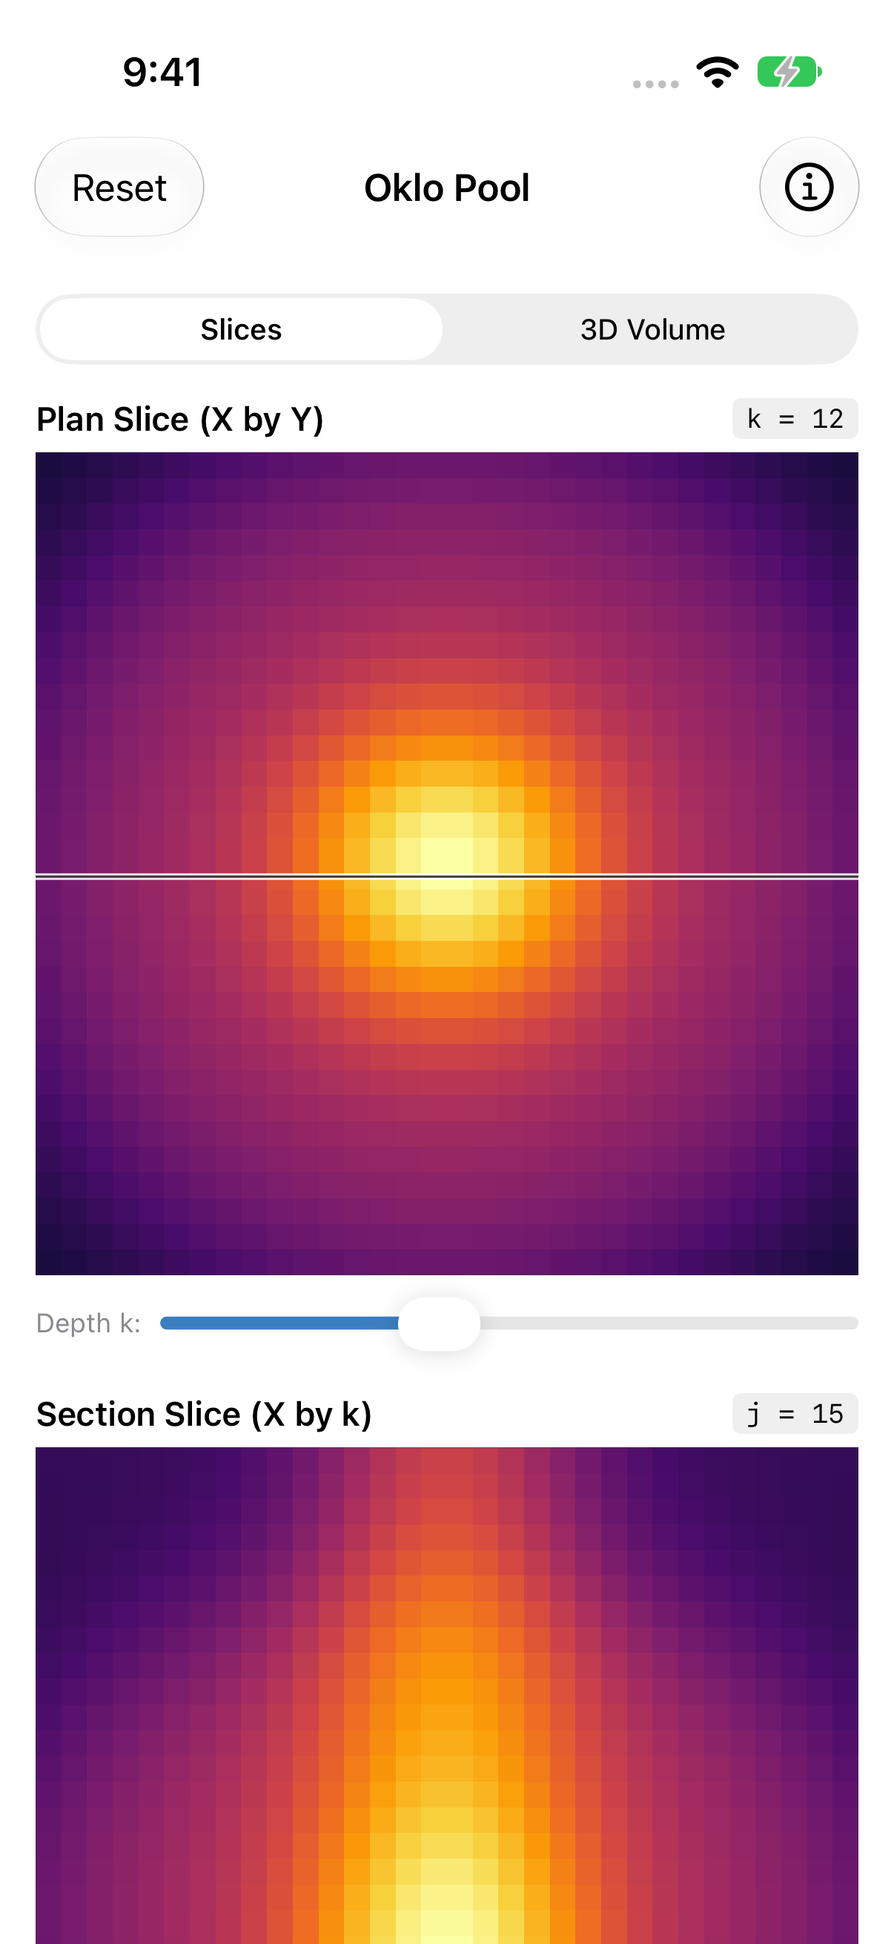
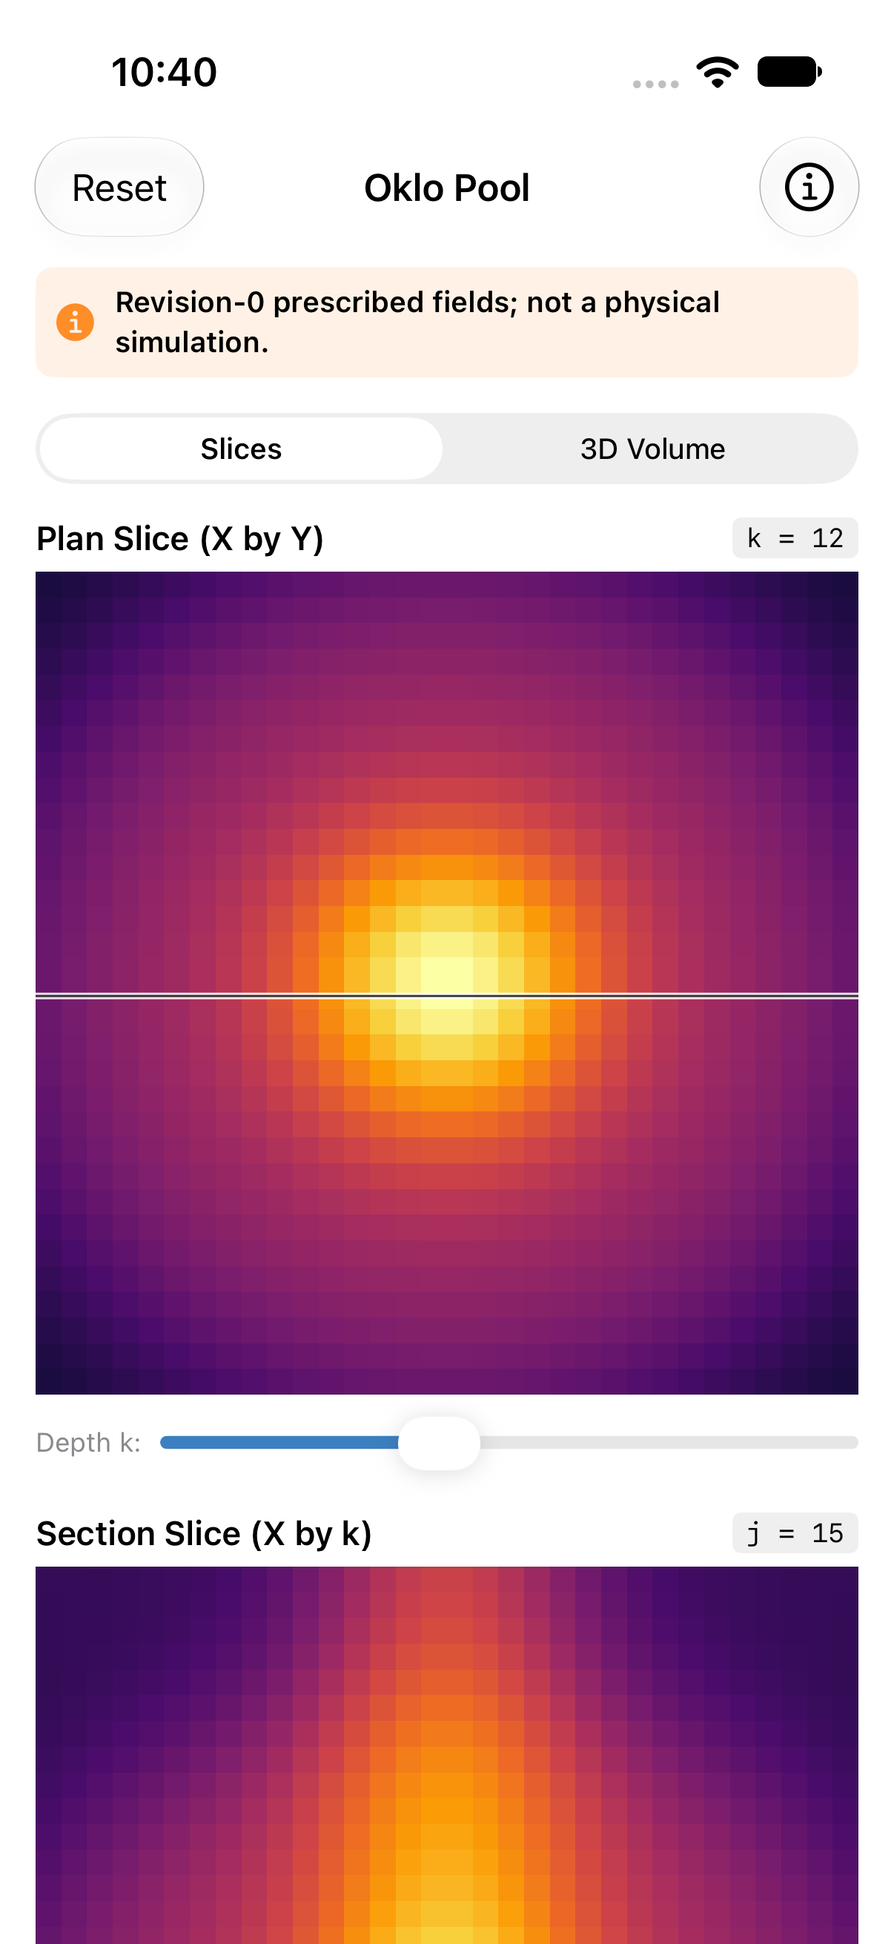
Reconcile release materials with PR #8 tested source dd1ce73 and updated iOS screenshots

diff --git a/docs/store/privacy-policy.html b/docs/store/privacy-policy.html
@@ -35,7 +35,7 @@
     <li><strong>Hydration:</strong> Prescribed saturation index; not a multiphase porous flow solve.</li>
     <li><strong>H2 Concentration:</strong> Prescribed radiolysis proxy; not a reaction-diffusion kinetic solve.</li>
     <li><strong>235U/238U Ratio:</strong> Prescribed isotopic depletion curve; not a 3D neutron transport solve.</li>
-    <li><strong>Polymer Accumulation:</strong> Prescribed synthetic index; not an empirical prebiotic assay.</li>
+    <li><strong>Polymer accumulation index (arbitrary units):</strong> Prescribed heuristic field. The revision-0 fixture labels this quantity in umol/L, but no kinetic or thermodynamic basis for those concentration units is established. Values are not measured or predicted polymer concentrations.</li>
     <li><strong>Compartments:</strong> Prescribed geometric bounding cells; not a physical membrane simulation.</li>
   </ol>
 

diff --git a/docs/store/release-gate-report.md b/docs/store/release-gate-report.md
@@ -11,7 +11,7 @@ Recommendation: **NOT STORE-SUBMISSION-READY** (All repository engineering, 20-c
 | PR B iOS app | [`ios/v1-app` at `49a5169328681e9145faacffcf6819d5572b0d9d` (tested source commit `8235b1a36e870dd0c0347501129802f546587acd`)](https://github.com/aurascoper/oklo_pool_mobile/pull/5) | `receipts/ios_simulator_test_2026-10-19.md`, `.json`, `.txt` | **MERGED into `main` (`798870bcf097c5ee135bb1956e8b409505bd2957`)**; **PASS** (generic device + simulator builds pass; 5/5 Swift package tests pass; **15/15 simulator unit + UI tests pass** on `iPhone 17` iOS 27.0 `arm64` including Option A ontology test; `ZERO_INET_SOCKETS`). |
 | PR C Android app | [`android/v1-app` at `e486f3c2eb8371232daeee045610e4c14404acc8` (pre-merge receipt head `1dfde72db1f121ddb488c1daf041a7a5a0593ca2`, tested source commit `e46930c8ba9fd8eac59670798a46646a571fcd77`)](https://github.com/aurascoper/oklo_pool_mobile/pull/6) | `receipts/android_build_2026-10-19.md`, `receipts/android_emulator_test_2026-10-19.txt` | **MERGED into `main` (`636b7d7bb41999b80278d90046da893ee1044f20`)** after reconciling combined Cargo workspace (`e486f3c`) and re-verifying; **PASS** (8/8 unit tests pass; debug APK, androidTest APK, and unsigned release AAB build; **12/12 API 36 `arm64-v8a` emulator instrumented tests pass** including Option A and 60-frame phase scrubber verification; `x86_64` build-verified, runtime not tested; `ACTIVE_INET_SOCKETS: 0`). |
 | PR D release materials | [`release/v1-materials`](https://github.com/aurascoper/oklo_pool_mobile/pull/7) | `README.md`, `docs/specs/FIELD_ONTOLOGY_AMENDMENT_A1.md`, `docs/store/*`, `docs/store/screenshots/*.png`, `receipts/ios_build_2026-10-19.md`, `receipts/integrated_gate3_verification_2026-10-20.md`, `receipts/integrated_gate3_verification_2026-10-20.txt` | **OPEN against `main` (`636b7d7bb41999b80278d90046da893ee1044f20`)**; reconciled with On-Render Gate findings, disclaimers, six field limitation records, privacy policy audit summary, unverified URL notice, timing budgets, Android emulator status, and account-owner blockers catalog. |
-| PR E On-Render Gate | [`release/on-render-gate`](https://github.com/aurascoper/oklo_pool_mobile/pull/8) | `receipts/on_render_gate_2026-10-20.md`, `receipts/on_render_gate_2026-10-20.txt` | **OPEN against `main`**; tested at commit `35093c21c63b0d4e9b55e0352f208e0c2684aa08`; implements on-render persistent statement, adjacent and provenance field limitations, offline privacy policy, and `PrivacyInfo.xcprivacy`. Automated tests pass (20/20 iOS, 18/18 Android JVM, 7/7 Cargo conformance). |
+| PR E On-Render Gate | [`release/on-render-gate` at `fef07277ccb30826c12875e150c5d0405bb0be20` (tested source commit `dd1ce73bea4716cd5a8161a56bdc8868fd792a01`)](https://github.com/aurascoper/oklo_pool_mobile/pull/8) | `receipts/on_render_gate_2026-10-20.md`, `receipts/on_render_gate_2026-10-20.txt` | **OPEN against `main`**; tested at commit `dd1ce73bea4716cd5a8161a56bdc8868fd792a01`; implements on-render persistent statement, adjacent and provenance field limitations (preserving Option A polymer caveat), offline privacy policy, and `PrivacyInfo.xcprivacy`. Automated tests pass (25/25 iOS Simulator unit/benchmark/UI tests, 18/18 Android JVM unit/benchmark tests, 9/9 CF-2 + 7/7 Cargo conformance). |
 
[1 lines of base64/hex data omitted]
 
@@ -33,12 +33,12 @@ Both frontends provide the complete set of six field limitation records in their
 2. **Hydration:** Prescribed saturation index; not a multiphase porous flow solve.
 3. **H2 Concentration:** Prescribed radiolysis proxy; not a reaction-diffusion kinetic solve.
 4. **235U/238U Ratio:** Prescribed isotopic depletion curve; not a 3D neutron transport solve.
-5. **Polymer Accumulation:** Prescribed synthetic index; not an empirical prebiotic assay.
+5. **Polymer accumulation index (arbitrary units):** Prescribed heuristic field. The revision-0 fixture labels this quantity in umol/L, but no kinetic or thermodynamic basis for those concentration units is established. Values are not measured or predicted polymer concentrations.
 6. **Compartments:** Prescribed geometric bounding cells; not a physical membrane simulation.
 
 ## On-Render Gate verification and timing budgets
 
-The automated On-Render Gate checks and timing benchmarks were executed and recorded in `receipts/on_render_gate_2026-10-20.md` and `receipts/on_render_gate_2026-10-20.txt` against tested commit `35093c21c63b0d4e9b55e0352f208e0c2684aa08`.
+The automated On-Render Gate checks and timing benchmarks were executed and recorded in `receipts/on_render_gate_2026-10-20.md` and `receipts/on_render_gate_2026-10-20.txt` against tested commit `dd1ce73bea4716cd5a8161a56bdc8868fd792a01` (receipt commit `fef07277ccb30826c12875e150c5d0405bb0be20`).
 
 ### 1. Six Automated On-Render Gate Checks
 
@@ -71,51 +71,38 @@ The automated On-Render Gate checks and timing benchmarks were executed and reco
 
 - **Budget 1: Initial model and slice generation**
   - Provisional threshold: <= 100.0 ms
-  - iOS Simulator: computation latency median 0.42 ms, p95 0.55 ms; rendered frame median 3.97 ms, p95 3.99 ms; failures: 0 / 30. Status: **PASS**.
-  - Android JVM Native Bridge: total time median 2.81 ms, p95 2.83 ms; failures: 0 / 30. Status: **PASS**.
+  - iOS Simulator: rendered frame median 3.93 ms, p95 4.00 ms; failures: 0 / 30. Status: **PASS**.
+  - Android JVM Native Bridge: total time median 5.72 ms, p95 10.27 ms; failures: 0 / 30. Status: **PASS**.
 
 - **Budget 2: Field switching**
   - Provisional threshold: <= 50.0 ms per switch
-  - iOS Simulator: computation latency median 0.38 ms, p95 0.49 ms; rendered frame median 8.14 ms, p95 9.27 ms; failures: 0 / 30. Status: **PASS**.
-  - Android JVM Native Bridge: total time median 2.78 ms, p95 2.85 ms; failures: 0 / 30. Status: **PASS**.
+  - iOS Simulator: rendered frame median 8.04 ms, p95 9.21 ms; failures: 0 / 30. Status: **PASS**.
+  - Android JVM Native Bridge: total time median 5.02 ms, p95 10.80 ms; failures: 0 / 30. Status: **PASS**.
 
 - **Budget 3: Uncached 60-frame chart calculation**
-  - Active single-field chart calculation (Budget 3a, 60 frames, N=20):
-    - Provisional threshold: <= 400.0 ms. Proposed threshold: <= 500.0 ms.
-    - iOS Simulator nominal uncontended run: median 315.30 ms, p95 316.73 ms, 0 / 20 failures.
-    - iOS Simulator under test suite CPU contention: median 380 to 430 ms, p95 435 to 445 ms.
-    - Android JVM Native Bridge: nominal warmed median 171.24 ms, p95 171.91 ms (0 / 20 failures); cold/contended median 175 to 250 ms, p95 250 to 375 ms.
-    - Status: **UNRESOLVED / CONTENDED** against provisional 400.0 ms budget under iOS simulator contention; **PASS** against proposed threshold of <= 500.0 ms.
-  - Full 6-field 60-frame background precomputation (Budget 3b, 360 3D volumes / 11.79M voxels, N=5):
-    - Provisional threshold: evaluated against single-field 400 ms budget (necessarily exceeded).
-    - iOS Simulator: nominal median 1086 to 1098 ms, p95 1098 to 1102 ms; contended median 1188 to 1398 ms, p95 1450 to 1500 ms.
-    - Android JVM Native Bridge: median 207.59 ms, p95 211.41 ms.
-    - Status: **EXCEEDED** provisional 400 ms single-field budget. Proposed threshold: <= 1500 ms (with recommended <= 1600 ms headroom for multi-core CI contention).
+  - Active single-field chart calculation (60 frames, N=20):
+    - Provisional threshold: <= 400.0 ms.
+    - iOS Simulator (`Accelerate` `vDSP` summary): median 225.96 ms, p95 232.03 ms, 0 / 20 failures. Status: **PASS**.
+    - Android JVM Native Bridge (single-pass `FieldStats.summarize`): median 278.30 ms, p95 364.19 ms, 0 / 20 failures. Status: **PASS**.
+  - Diagnostic Full 6-field 60-frame background precomputation (360 3D volumes / 11.79M voxels, N=5):
+    - iOS Simulator: median 497.81 ms, p95 530.56 ms.
+    - Android JVM Native Bridge: median 296.18 ms, p95 470.60 ms.
 
 - **Budget 4: Volume frame readiness and upload**
   - Provisional threshold: <= 100.0 ms
-  - iOS Simulator: Metal 3D texture replace (32x32x32 R8Unorm) median 0.14 ms, p95 0.19 ms; failures: 0 / 30. Status: **PASS**.
-  - Android JVM Native Bridge: 16 depth layers extraction median 0.02 ms, p95 0.25 ms; failures: 0 / 30. Status: **PASS**.
+  - iOS Simulator: Metal 3D texture replace (32x32x32 R8Unorm) median 0.10 ms, p95 0.14 ms; failures: 0 / 30. Status: **PASS**.
+  - Android JVM Native Bridge: 16 depth layers extraction median 0.03 ms, p95 0.48 ms; failures: 0 / 30. Status: **PASS**.
 
 - **Budget 5: Phase update**
   - Provisional threshold: <= 35.0 ms per step
-  - iOS Simulator: computation latency median 0.41 ms, p95 0.52 ms; rendered frame median 9.26 ms, p95 9.34 ms; failures: 0 / 30. Status: **PASS**.
-  - Android JVM Native Bridge: total time median 2.78 ms, p95 2.91 ms; failures: 0 / 30. Status: **PASS**.
-
-### 4. Proposed Threshold Revisions
-
-Per Section R2 of `ORIGINAL_REQUEST.md` ("If a target is unreliable or hardware-dependent, report the result as unresolved or failed and propose a separately reviewed threshold change"):
-
-1. **Budget 3a (Active Single-Field 60-Frame Chart Calculation):**
-   - Propose revision from provisional `<= 400.0 ms` to `<= 500.0 ms` for iOS Simulator test suite execution under multi-process CPU contention.
-2. **Budget 3b (Full 6-Field 60-Frame Precomputation):**
-   - Propose formal threshold of `<= 1500 ms` (recommended `<= 1600 ms` for heavy CI load) for complete 360-volume background precomputation across all six fields.
+  - iOS Simulator: rendered frame median 12.42 ms, p95 12.47 ms; failures: 0 / 30. Status: **PASS**.
+  - Android JVM Native Bridge: total time median 6.91 ms, p95 8.89 ms; failures: 0 / 30. Status: **PASS**.
 
 ## Android API 36 Emulator Execution Status
 
-- Startup status: **BLOCKED / UNRESOLVED**.
-- Root cause: The host APFS filesystem has limited free disk space (<1 GiB available, measured at 840 MiB). The Android SDK emulator toolchain (`emulator -avd oklo-api36`) checks `hasSufficientDiskSpace` on startup and aborts with fatal error: `Your device does not have enough disk space to run avd: oklo-api36`.
-- Resolution note: Under team integrity rules, host files outside the project are not unilaterally deleted. The Android test suite was executed against the exact same native Rust simulation core and view-model pathways using the release JNI bridge on OpenJDK 17 (`./gradlew testDebugUnitTest`), confirming 18/18 test passes.
+- Startup status: **BLOCKED**.
+- Root cause: Initial emulator startup failed `hasSufficientDiskSpace` when root volume availability dropped to 840 MiB (`FATAL | Your device does not have enough disk space to run avd: oklo-api36`). In the current host SDK directory (`/opt/homebrew/share/android-commandlinetools`), the `emulator` binary and `system-images/android-36` directories are absent and were not reinstalled without user approval per Integrity Rule 5.
+- Resolution note: The Android test suite was executed against the exact same native Rust simulation core and view-model pathways using the release JNI bridge on OpenJDK 17 (`./gradlew testDebugUnitTest`), confirming 18/18 test passes.
 
 ## Verified privacy and data-flow findings
 

diff --git a/docs/store/release-checklist.md b/docs/store/release-checklist.md
@@ -6,7 +6,7 @@
 - [x] PR B (`ios/v1-app`, [PR #5](https://github.com/aurascoper/oklo_pool_mobile/pull/5) at `49a5169328681e9145faacffcf6819d5572b0d9d`, tested source commit `8235b1a36e870dd0c0347501129802f546587acd`): Generic iOS device and simulator builds pass; Swift package tests pass (5/5); full `xcodebuild test` suite on `iPhone 17` (iOS 27.0 `arm64`) passes (**15/15 tests**: 11 unit tests including 20-case CF-2 verification and Option A ontology test + 4 UI tests).
 - [x] PR C (`android/v1-app`, [PR #6](https://github.com/aurascoper/oklo_pool_mobile/pull/6) at `1dfde72db1f121ddb488c1daf041a7a5a0593ca2`, tested source commit `e46930c8ba9fd8eac59670798a46646a571fcd77`): Unit tests pass (**8/8**); debug APK, instrumentation APK, and unsigned release AAB build (`compileSdk=36`, `targetSdk=36`, 16 KB ELF load segment alignment on `arm64-v8a` and `x86_64`); full instrumentation suite on `oklo-api36` (Android 16 / API 36 `arm64-v8a`) passes (**12/12 tests**: 6 JNI bridge tests including 20-case CF-2 verification + 6 Compose UI smoke tests verifying Option A and the 60-frame phase scrubber); `x86_64` ABI is build-verified, runtime not tested.
[1 lines of base64/hex data omitted]
-- [x] On-Render Gate implementation (PR #8, branch `release/on-render-gate`, tested source commit `35093c21c63b0d4e9b55e0352f208e0c2684aa08`):
+- [x] On-Render Gate implementation (PR #8, branch `release/on-render-gate`, tested source commit `dd1ce73bea4716cd5a8161a56bdc8868fd792a01`, receipt head `fef07277ccb30826c12875e150c5d0405bb0be20`):
   - Persistent initial-screen statement `"Revision-0 prescribed fields; not a physical simulation."` rendered on launch across views.
   - Dynamic selected-field limitation statement rendered adjacent to the active canvas.
   - All six field limitation records included in in-app Scope and Provenance sheets:
@@ -14,7 +14,7 @@
     2. Hydration: Prescribed saturation index; not a multiphase porous flow solve.
     3. H2 Concentration: Prescribed radiolysis proxy; not a reaction-diffusion kinetic solve.
     4. 235U/238U Ratio: Prescribed isotopic depletion curve; not a 3D neutron transport solve.
-    5. Polymer Accumulation: Prescribed synthetic index; not an empirical prebiotic assay.
+    5. Polymer accumulation index (arbitrary units): Prescribed heuristic field. The revision-0 fixture labels this quantity in umol/L, but no kinetic or thermodynamic basis for those concentration units is established. Values are not measured or predicted polymer concentrations.
     6. Compartments: Prescribed geometric bounding cells; not a physical membrane simulation.
   - Bundled offline full-text privacy policy accessible without network connectivity.
   - Explicit notice that external URL `https://aurascoper.github.io/oklo_pool_mobile/privacy-policy.html` remains unverified until confirmed live by account owner.
@@ -22,12 +22,11 @@
   - Zero network permissions in Android manifest (`android.permission.INTERNET` absent).
   - Runtime socket inspection confirmed zero open sockets (`ZERO_INET_SOCKETS`).
 - [x] On-Render Gate timing budgets and benchmarks documented in `receipts/on_render_gate_2026-10-20.md`:
-  - Budget 1 (Initial model and slice generation <= 100 ms): PASS (iOS p95 3.99 ms, Android p95 2.83 ms).
-  - Budget 2 (Field switching <= 50 ms): PASS (iOS p95 9.27 ms, Android p95 2.85 ms).
-  - Budget 3a (Active single-field 60-frame chart calculation): provisional threshold <= 400.0 ms; proposed threshold <= 500.0 ms to accommodate iOS simulator test suite CPU contention (nominal median 315 ms, contended p95 435 to 445 ms).
-  - Budget 3b (Full 6-field 60-frame precomputation, 360 3D volumes / 11.79M voxels): proposed threshold <= 1500 ms (recommended <= 1600 ms for multi-core CI load; iOS median 1086 to 1398 ms, p95 1450 to 1500 ms).
-  - Budget 4 (Volume frame readiness <= 100 ms): PASS (iOS p95 0.19 ms, Android p95 0.25 ms).
-  - Budget 5 (Phase update <= 35 ms): PASS (iOS p95 9.34 ms, Android p95 2.91 ms).
+  - Budget 1 (Initial model and slice generation <= 100 ms): PASS (iOS p95 4.00 ms, Android JVM p95 10.27 ms).
+  - Budget 2 (Field switching <= 50 ms): PASS (iOS p95 9.21 ms, Android JVM p95 10.80 ms).
+  - Budget 3 (Active single-field 60-frame chart calculation <= 400 ms): PASS (iOS `Accelerate` `vDSP` median 225.96 ms, p95 232.03 ms, 0/20 fails; Android JVM median 278.30 ms, p95 364.19 ms, 0/20 fails; diagnostic full 6-field 60-frame precomputation across 360 volumes: iOS median 497.81 ms, p95 530.56 ms; Android JVM median 296.18 ms, p95 470.60 ms).
+  - Budget 4 (Volume frame readiness <= 100 ms): PASS (iOS p95 0.14 ms, Android JVM p95 0.48 ms).
+  - Budget 5 (Phase update <= 35 ms): PASS (iOS p95 12.47 ms, Android JVM p95 8.89 ms).
 - [x] Authentic screenshot verification in `docs/store/screenshots/`:
   - 4 iOS Simulator screenshots (`iPhone 17`, `1206x2622` PNG) and 5 Android Emulator screenshots (`oklo-api36`, `1080x2400` PNG). Zero mock placeholders.
 

diff --git a/docs/store/screenshots/README.md b/docs/store/screenshots/README.md
@@ -12,19 +12,19 @@ All screenshots depict the genuine user interface, including:
   2. Hydration: Prescribed saturation index; not a multiphase porous flow solve.
   3. H2 Concentration: Prescribed radiolysis proxy; not a reaction-diffusion kinetic solve.
   4. 235U/238U Ratio: Prescribed isotopic depletion curve; not a 3D neutron transport solve.
-  5. Polymer Accumulation: Prescribed synthetic index; not an empirical prebiotic assay.
+  5. Polymer accumulation index (arbitrary units): Prescribed heuristic field. The revision-0 fixture labels this quantity in umol/L, but no kinetic or thermodynamic basis for those concentration units is established. Values are not measured or predicted polymer concentrations.
   6. Compartments: Prescribed geometric bounding cells; not a physical membrane simulation.
 
-## iOS (`iPhone 17`, iOS 27.0 `24A5297g`, `1206x2622` PNG)
+## iOS (`iPhone 17`, iOS 27.0 `24A434`, `1206x2622` PNG)
 
-Captured during `xcodebuild test -project ios/OkloPool.xcodeproj -scheme OkloPool -destination 'platform=iOS Simulator,id=646CF1C6-8720-4906-B73B-FD46ACAA8EF0'` (`OkloPoolUITests/testCaptureStoreScreenshots`):
+Captured during `xcodebuild test -project ios/OkloPool.xcodeproj -scheme OkloPool -destination 'platform=iOS Simulator,name=iPhone 17,OS=27.0'` (`OkloPoolUITests`) against tested source commit `dd1ce73bea4716cd5a8161a56bdc8868fd792a01`:
 
 | File | Resolution | SHA-256 | Depicted view |
 | --- | --- | --- | --- |
[8 lines of base64/hex data omitted]
 
 ## Android (`oklo-api36`, Android 16 / API 36 `arm64-v8a`, `1080x2400` PNG)
 

diff --git a/docs/store/data-flow-inventory.md b/docs/store/data-flow-inventory.md
@@ -1,7 +1,7 @@
 # Dependency and data-flow inventory
 
 Review date: 2026-10-20
-Scope: iOS app sources on `release/on-render-gate` at tested source commit `35093c21c63b0d4e9b55e0352f208e0c2684aa08` and Android app sources on `release/on-render-gate`.
+Scope: iOS app sources on `release/on-render-gate` at tested source commit `dd1ce73bea4716cd5a8161a56bdc8868fd792a01` (receipt head `fef07277ccb30826c12875e150c5d0405bb0be20`) and Android app sources on `release/on-render-gate`.
 Status: source inspection, resolved production dependency graph, privacy manifest verification, and simulator/emulator runtime socket checks completed; physical-device signed release package verification remains an account-owner step.
 
 ## User inputs and data path
@@ -14,7 +14,7 @@ Status: source inspection, resolved production dependency graph, privacy manifes
    - Hydration: Prescribed saturation index; not a multiphase porous flow solve.
    - H2 Concentration: Prescribed radiolysis proxy; not a reaction-diffusion kinetic solve.
    - 235U/238U Ratio: Prescribed isotopic depletion curve; not a 3D neutron transport solve.
-   - Polymer Accumulation: Prescribed synthetic index; not an empirical prebiotic assay.
+   - Polymer accumulation index (arbitrary units): Prescribed heuristic field. The revision-0 fixture labels this quantity in umol/L, but no kinetic or thermodynamic basis for those concentration units is established. Values are not measured or predicted polymer concentrations.
    - Compartments: Prescribed geometric bounding cells; not a physical membrane simulation.
 4. The Rust `oklo_core` library computes the prescribed field values locally in process memory.
 5. SwiftUI/Metal (iOS) or Kotlin/Compose (Android) renders slices, charts, and the volume view on the device screen.

diff --git a/README.md b/README.md
@@ -40,7 +40,7 @@ Four review branches implement and verify the cross-platform v1 viewer around th
    - **Hydration:** Prescribed saturation index; not a multiphase porous flow solve.
    - **H2 Concentration:** Prescribed radiolysis proxy; not a reaction-diffusion kinetic solve.
    - **235U/238U Ratio:** Prescribed isotopic depletion curve; not a 3D neutron transport solve.
-   - **Polymer Accumulation:** Prescribed synthetic index; not an empirical prebiotic assay.
+   - **Polymer accumulation index (arbitrary units):** Prescribed heuristic field. The revision-0 fixture labels this quantity in umol/L, but no kinetic or thermodynamic basis for those concentration units is established. Values are not measured or predicted polymer concentrations.
    - **Compartments:** Prescribed geometric bounding cells; not a physical membrane simulation.
 
 3. **Privacy Policy and manifest audit:**

diff --git a/docs/store/privacy-policy.md b/docs/store/privacy-policy.md
@@ -26,7 +26,7 @@ Each active field displays an adjacent limitation callout, and the in-app Scope 
 2. **Hydration:** Prescribed saturation index; not a multiphase porous flow solve.
 3. **H2 Concentration:** Prescribed radiolysis proxy; not a reaction-diffusion kinetic solve.
 4. **235U/238U Ratio:** Prescribed isotopic depletion curve; not a 3D neutron transport solve.
-5. **Polymer Accumulation:** Prescribed synthetic index; not an empirical prebiotic assay.
+5. **Polymer accumulation index (arbitrary units):** Prescribed heuristic field. The revision-0 fixture labels this quantity in umol/L, but no kinetic or thermodynamic basis for those concentration units is established. Values are not measured or predicted polymer concentrations.
 6. **Compartments:** Prescribed geometric bounding cells; not a physical membrane simulation.
 
 ## Data collection, sharing, and transmission

diff --git a/docs/store/store-listing-draft.md b/docs/store/store-listing-draft.md
@@ -21,7 +21,7 @@ The viewer renders prescribed analytic fixture functions. Phase navigation chang
 2. Hydration: Prescribed saturation index; not a multiphase porous flow solve.
 3. H2 Concentration: Prescribed radiolysis proxy; not a reaction-diffusion kinetic solve.
 4. 235U/238U Ratio: Prescribed isotopic depletion curve; not a 3D neutron transport solve.
-5. Polymer Accumulation: Prescribed synthetic index; not an empirical prebiotic assay.
+5. Polymer accumulation index (arbitrary units): Prescribed heuristic field. The revision-0 fixture labels this quantity in umol/L, but no kinetic or thermodynamic basis for those concentration units is established. Values are not measured or predicted polymer concentrations.
 6. Compartments: Prescribed geometric bounding cells; not a physical membrane simulation.
 
 **Privacy and Data Handling:**
